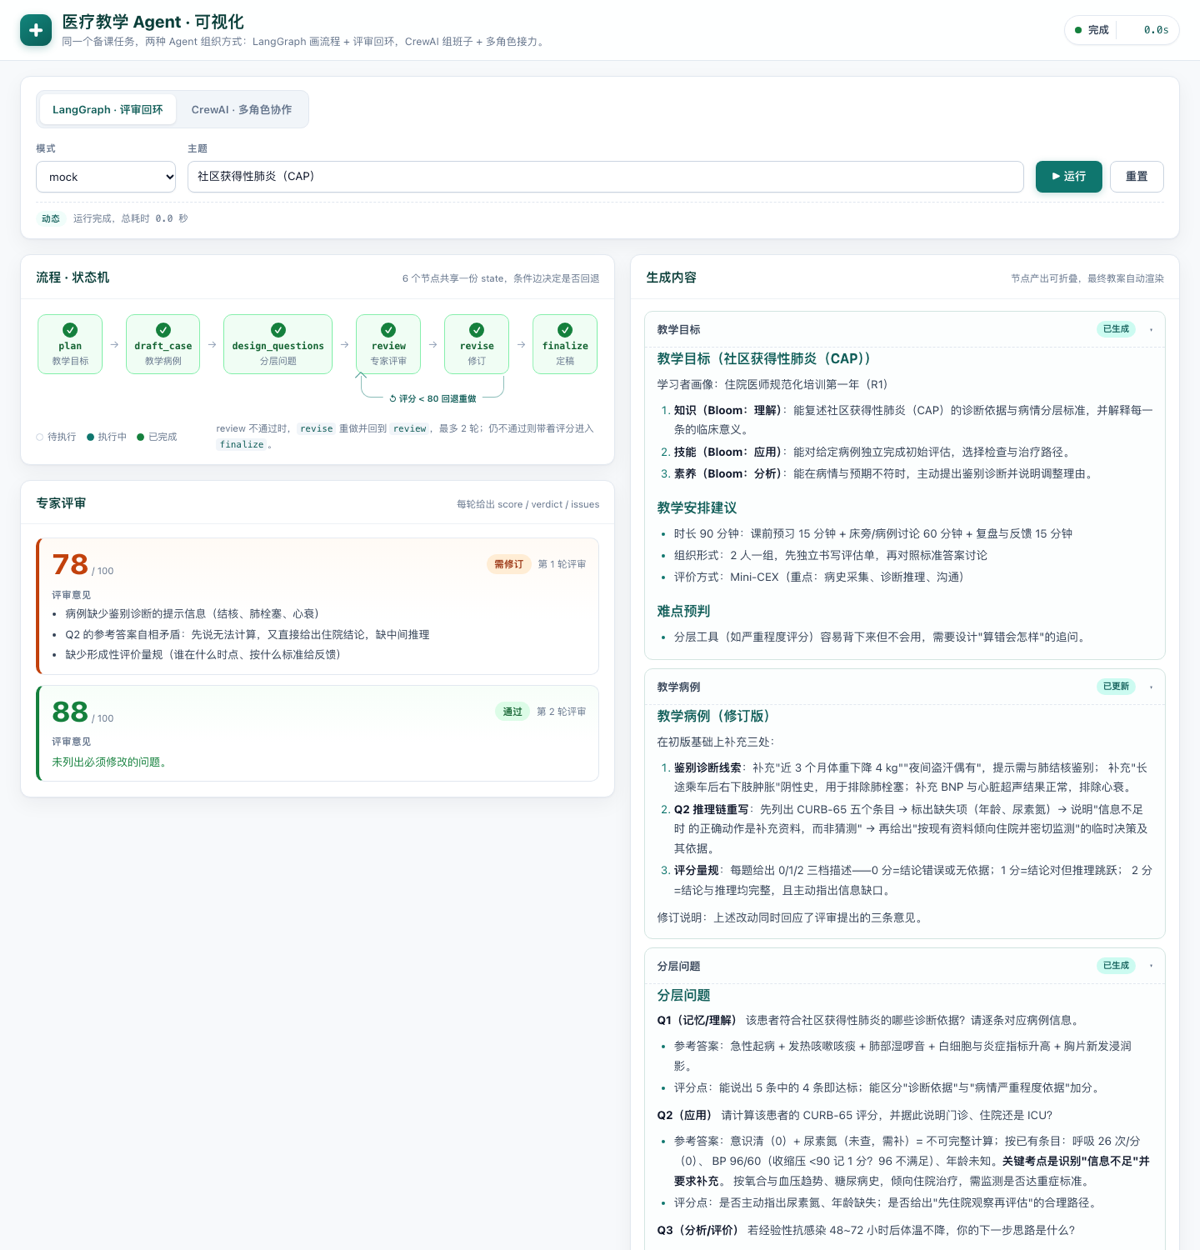
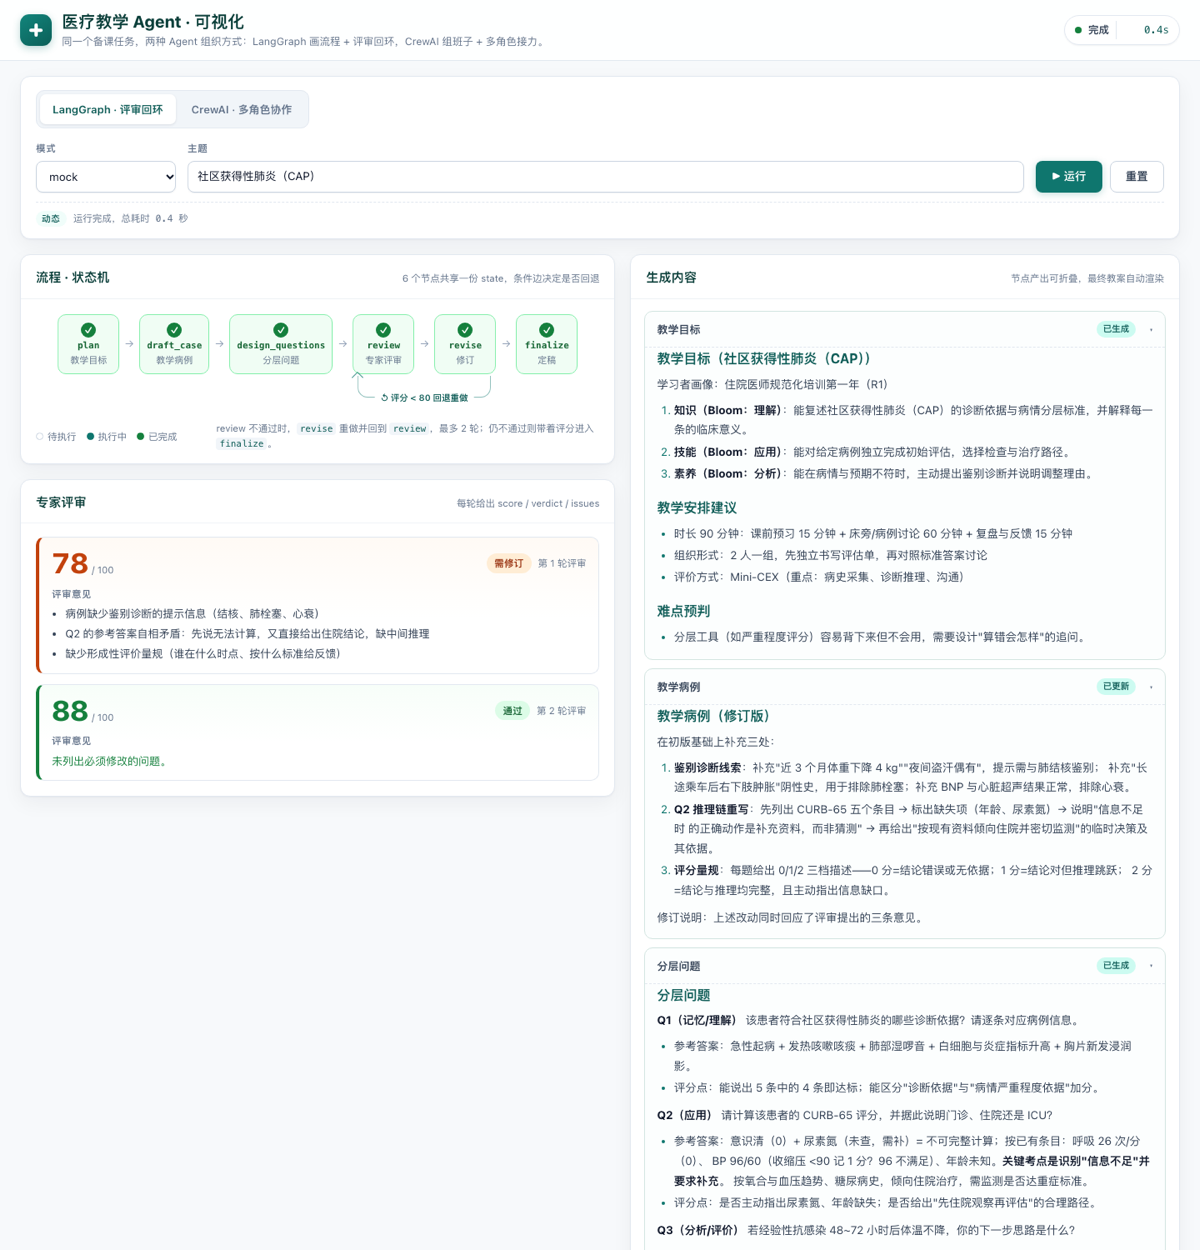
polish(07): 前端视觉细节与截图更新
- 流程节点不再断词，引用块保留换行，耗时取后端与实测较大值
- 角色卡内 Markdown 紧凑排版与横向滚动表格
- 窄屏顶栏不吸顶、流程纵向展示
- 更新 README 截图

diff --git a/code/07-frameworks/medical-education/webui/static/style.css b/code/07-frameworks/medical-education/webui/static/style.css
@@ -416,11 +416,11 @@ code, pre { font-family: var(--font-mono); }
 
 .flow {
   display: grid;
-  grid-template-columns: auto 22px auto 22px auto 22px auto 22px auto 22px auto;
+  grid-template-columns: auto 20px auto 20px auto 20px auto 20px auto 20px auto;
   grid-template-rows: auto 30px;
   align-items: start;
   justify-content: center;
-  column-gap: 3px;
+  column-gap: 2px;
   row-gap: 8px;
   min-width: 640px;
 }
@@ -430,8 +430,8 @@ code, pre { font-family: var(--font-mono); }
   flex-direction: column;
   align-items: center;
   gap: 2px;
-  min-width: 78px;
-  padding: 9px 9px 8px;
+  min-width: 74px;
+  padding: 9px 8px 8px;
   border: 1.5px solid var(--border);
   border-radius: 10px;
   background: var(--surface);
@@ -451,11 +451,11 @@ code, pre { font-family: var(--font-mono); }
 
 .node-name {
   font-family: var(--font-mono);
-  font-size: 11.5px;
+  font-size: 11px;
   font-weight: 650;
   line-height: 1.4;
   color: #475569;
-  word-break: break-all;
+  white-space: nowrap;
 }
 
 .node-label {
@@ -905,11 +905,83 @@ code, pre { font-family: var(--font-mono); }
   color: var(--text-soft);
   font-size: 12.5px;
   line-height: 1.65;
-  white-space: pre-wrap;
+  white-space: normal;
   word-break: break-word;
   transition: max-height .2s ease;
 }
 .agent-output .empty-hint { font-size: 12px; }
+
+/* 角色卡内是渲染后的 Markdown：压缩标题与表格，保持“摘要”观感 */
+.agent-output h1,
+.agent-output h2,
+.agent-output h3,
+.agent-output h4,
+.agent-output h5,
+.agent-output h6 {
+  margin: 9px 0 3px;
+  font-size: 13px;
+  line-height: 1.5;
+  font-weight: 700;
+  color: var(--primary-strong);
+}
+.agent-output > :first-child { margin-top: 0; }
+.agent-output p { margin: 3px 0; }
+.agent-output ul,
+.agent-output ol { margin: 3px 0 5px; padding-left: 1.35em; }
+.agent-output li { margin: 1px 0; }
+.agent-output li::marker { color: var(--primary); }
+.agent-output strong { color: var(--text); font-weight: 700; }
+.agent-output code {
+  padding: 0 3px;
+  border-radius: 3px;
+  background: #e8eef3;
+  color: #0f4c47;
+  font-size: .92em;
+}
+.agent-output pre {
+  margin: 5px 0;
+  padding: 7px 8px;
+  border-radius: 6px;
+  background: #0f172a;
+  color: #e2e8f0;
+  font-size: 10.5px;
+  line-height: 1.55;
+  overflow-x: auto;
+}
+.agent-output pre code { padding: 0; background: transparent; color: inherit; font-size: inherit; }
+.agent-output blockquote {
+  margin: 5px 0;
+  padding: 5px 8px;
+  border-left: 2px solid #5eead4;
+  border-radius: 0 5px 5px 0;
+  background: var(--primary-tint);
+  color: #134e4a;
+  font-size: 11.5px;
+}
+.agent-output blockquote p { margin: 1px 0; }
+.agent-output hr { margin: 7px 0; border: 0; border-top: 1px dashed var(--border-strong); }
+.agent-output .table-wrap {
+  margin: 5px 0;
+  overflow-x: auto;
+  border: 1px solid var(--border);
+  border-radius: 5px;
+  scrollbar-width: thin;
+}
+.agent-output table { width: 100%; border-collapse: collapse; font-size: 10.5px; line-height: 1.5; }
+.agent-output th,
+.agent-output td {
+  padding: 3px 5px;
+  border: 1px solid var(--border);
+  text-align: left;
+  vertical-align: top;
+}
+.agent-output th {
+  background: #eef4f4;
+  color: #134e4a;
+  font-weight: 700;
+  white-space: nowrap;
+}
+.agent-output tbody tr:nth-child(even) { background: var(--surface-3); }
 
 .agent-card.is-clipped:not(.expanded) .agent-output::after {
   content: "";
@@ -1099,6 +1171,7 @@ code, pre { font-family: var(--font-mono); }
 
 @media (max-width: 720px) {
   .container { padding: 0 14px; }
+  .topbar { position: static; }
   .topbar-inner {
     flex-direction: column;
     align-items: flex-start;
@@ -1118,9 +1191,34 @@ code, pre { font-family: var(--font-mono); }
   .btn { width: 100%; }
   .panel-head { flex-direction: column; align-items: flex-start; gap: 3px; padding: 13px 14px 11px; }
   .panel-hint { text-align: left; }
-  .flow-scroll { padding: 14px 14px 6px; }
-  .flow { min-width: 600px; }
-  .flow-foot { padding: 10px 14px 0; }
+  /* 窄屏流程改为纵向，避免横向滚动藏住后面的节点 */
+  .flow-scroll { padding: 14px 14px 4px; overflow: visible; }
+  .flow {
+    display: flex;
+    flex-direction: column;
+    align-items: stretch;
+    gap: 0;
+    min-width: 0;
+  }
+  .flow-node {
+    flex-direction: row;
+    justify-content: flex-start;
+    gap: 8px;
+    min-width: 0;
+    padding: 8px 10px;
+    text-align: left;
+  }
+  .flow-node .node-icon { flex: 0 0 auto; }
+  .flow-node .node-name { min-width: 112px; }
+  .flow-arrow {
+    align-self: flex-start;
+    margin-left: 27px;
+    padding: 1px 0;
+    transform: rotate(90deg);
+  }
+  .flow-loop { display: none; }
+  .flow-foot { flex-direction: column; align-items: flex-start; gap: 6px; padding: 10px 14px 0; }
+  .flow-note { max-width: none; }
   .review-list { padding: 14px; }
   .folds { padding: 12px 12px 2px; }
   .final-block { padding: 12px 14px 14px; }

diff --git a/code/07-frameworks/medical-education/webui/static/app.js b/code/07-frameworks/medical-education/webui/static/app.js
@@ -207,7 +207,8 @@
           quoteLines.push(lines[i].trim().replace(/^>\s?/, ''));
           i += 1;
         }
-        html.push('<blockquote><p>' + renderInline(joinTextLines(quoteLines)) + '</p></blockquote>');
+        /* 引用内的换行保留为 <br>：> 行通常是元信息，拼成一段会粘在一起 */
+        html.push('<blockquote><p>' + quoteLines.map(renderInline).join('<br>') + '</p></blockquote>');
         continue;
       }
 
@@ -621,9 +622,10 @@
 
     var example = state.runExample;
     var seconds = parseFloat(data.elapsed);
-    if (!isFinite(seconds) || seconds <= 0) {
-      /* mock 模式子进程极快，后端 elapsed 可能是 0；退回客户端实测以显示总耗时。 */
-      seconds = (Date.now() - state.startedAt) / 1000;
+    var measured = (Date.now() - state.startedAt) / 1000;
+    if (!isFinite(seconds) || seconds < measured) {
+      /* mock 子进程极快，后端 elapsed 可能为 0；取较大值，避免总耗时显示 0.0s。 */
+      seconds = measured;
     }
     el.timer.textContent = seconds.toFixed(1) + 's';
 
